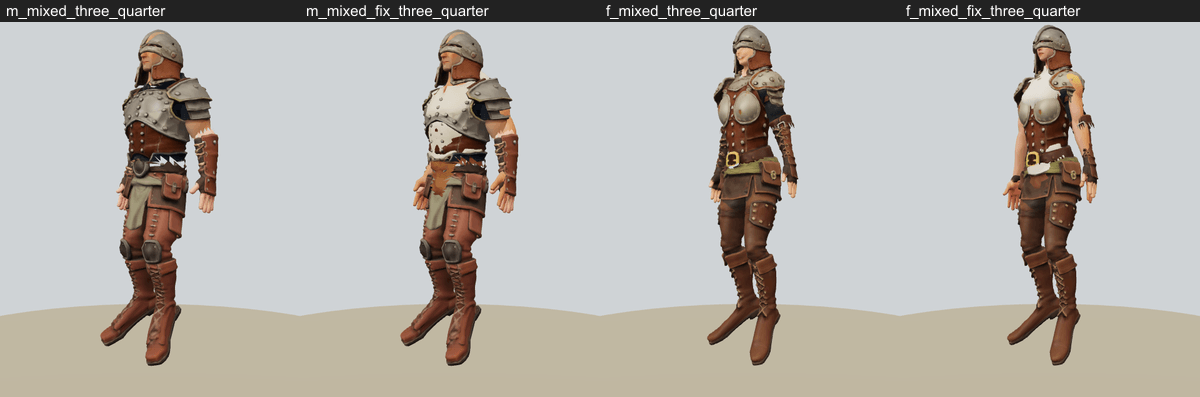
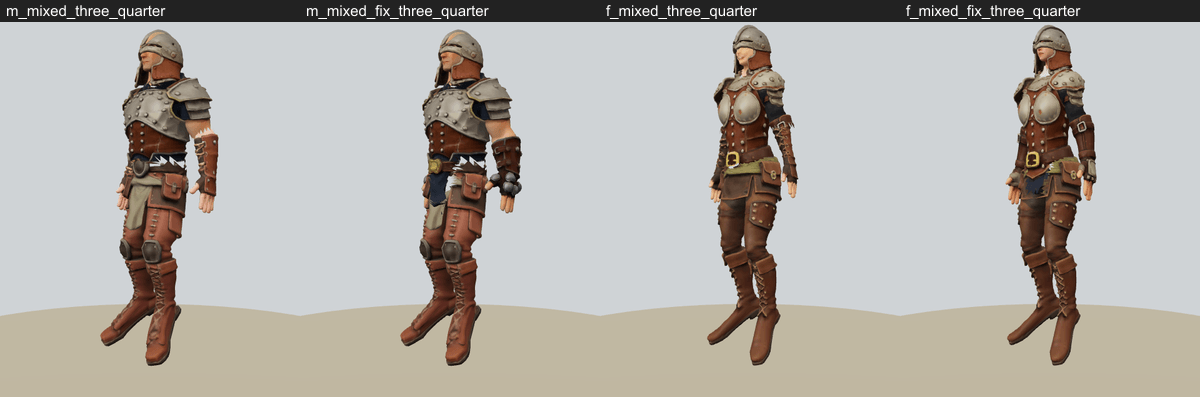
fix(characters): close stylized seams by set, not by the bare body
The bare body regions sit on the armor surface, so drawing them under a
seam showed the pale base through a plate chest. A seam is closed in the
worn set instead: the belt follows the chest's set and the gloves the
shoulders' while both are worn, so the mixed kit and mixed gear meet.

Claude-Session: https://claude.ai/code/session_01SUvW6kbA7x9tAFTjhNjJLN

Changed region(s): [[0.3392, 0.1814, 0.4317, 0.5441], [0.8325, 0.1814, 0.925, 0.5441]]

diff --git a/src/render/characters/stylized_kit_core.ts b/src/render/characters/stylized_kit_core.ts
@@ -210,7 +210,7 @@ export function stylizedKitWorn(
       set && (slot !== 'head' || HELMED.has(set)) ? stylizedItemId(fit, set, slot) : null;
   }
   if (helmHidden) worn.head = null;
-  return worn;
+  return stylizedCloseSeams(fit, worn);
 }
 
 /**
@@ -323,7 +323,7 @@ export function stylizedGearWorn(
     worn[slot] = slot !== 'head' || HELMED.has(set) ? stylizedItemId(fit, set, slot) : null;
   }
   if (helmHidden) worn.head = null;
-  return worn;
+  return stylizedCloseSeams(fit, worn);
 }
 
 const catalogCache = new Map<WocFit, ReadonlyMap<string, WocArmorItem>>();
@@ -344,42 +344,27 @@ export function stylizedFitCatalog(fit: WocFit): ReadonlyMap<string, WocArmorIte
   return hit;
 }
 
-/** The slots whose pieces meet: each set is cut to close against its OWN neighbour, so where
- *  two sets (or a set and a bare slot) meet, a sliver of the body between them is hidden by
- *  neither. */
-const SEAMS: readonly (readonly [string, string])[] = [
+/** The seams a kit closes: each set is cut to meet its OWN neighbour, so a piece of one set
+ *  over a piece of another opens a gap between them (a plate chest ends above a leather
+ *  belt). The second slot of each pair follows the first's set while both are worn: the belt
+ *  goes with the chest, the gloves with the shoulders. */
+const SEAM_FOLLOWERS: readonly (readonly [string, string])[] = [
   ['chest', 'waist'],
-  ['chest', 'arms'],
   ['arms', 'hands'],
-  ['waist', 'legs'],
-  ['legs', 'feet'],
 ];
 
-/**
- * The mixed-kit seam: `wanted` (the parts a stylized body draws) plus the bare body regions
- * under both sides of every seam whose two sides are not one set, so the body fills the gap
- * instead of the far side of the armor showing through it. Untouched (the same set back)
- * for any other body and for a kit that is one set throughout.
- */
-export function stylizedSeamFill(
-  manifest: WocCharacterManifest,
-  worn: WocWorn,
-  wanted: Set<string>,
-): Set<string> {
-  if (!manifest.ownHead) return wanted;
-  const setOf = (slot: string): string | null => {
-    const id = worn[slot];
-    if (!id) return null;
-    return (manifest.items[id] ?? stylizedFitCatalog(manifest.fit).get(id))?.set ?? null;
-  };
-  for (const [a, b] of SEAMS) {
-    if (setOf(a) === setOf(b)) continue;
-    for (const slot of [a, b]) {
-      for (const n of manifest.appearance[`body_${slot}`]?.variants.default?.nodes ?? [])
-        wanted.add(n);
-    }
+/** `worn` with every open seam closed (SEAM_FOLLOWERS); the same object when none is open. */
+export function stylizedCloseSeams(fit: WocFit, worn: WocWorn): WocWorn {
+  const catalog = stylizedFitCatalog(fit);
+  let out: Record<string, string | null> | null = null;
+  for (const [lead, follow] of SEAM_FOLLOWERS) {
+    const a = worn[lead] ? catalog.get(worn[lead] as string) : undefined;
+    const b = worn[follow] ? catalog.get(worn[follow] as string) : undefined;
+    if (!a || !b || a.set === b.set) continue;
+    out ??= { ...worn };
+    out[follow] = stylizedItemId(fit, a.set.replace(/^stylized_/, '') as StylizedSet, follow);
   }
-  return wanted;
+  return out ?? worn;
 }
 
 /** The face and hair a dev review asks for, onto the manifest's defaults. */

diff --git a/tests/stylized_gear_worn.test.ts b/tests/stylized_gear_worn.test.ts
@@ -5,12 +5,12 @@ import {
   STYLIZED_SET_ARMOR,
   STYLIZED_SETS,
   type StylizedItemLookup,
+  stylizedCloseSeams,
   stylizedFitCatalog,
   stylizedGearWorn,
   stylizedItemId,
   stylizedKitWorn,
   stylizedManifest,
-  stylizedSeamFill,
   stylizedSetForItem,
   stylizedSetOfDisplay,
 } from '../src/render/characters/stylized_kit_core';
@@ -92,31 +92,27 @@ describe('stylized gear mapping', () => {
   });
 });
 
-describe('stylized seam fill', () => {
-  const m = stylizedManifest('male', WOC_WARRIOR_MANIFEST, 'plate', ['leather']);
-  const region = (slot: string) => m.appearance[`body_${slot}`].variants.default.nodes[0];
-
-  it('adds nothing for a kit that is one set throughout', () => {
+describe('stylized seam closing', () => {
+  it('leaves a kit that is one set throughout untouched', () => {
     const worn = stylizedKitWorn('male', 'plate', false);
-    const wanted = wocVisibleParts(m, m.defaultAppearance, worn);
-    const before = [...wanted];
-    expect([...stylizedSeamFill(m, worn, wanted)]).toEqual(before);
+    expect(stylizedCloseSeams('male', worn)).toBe(worn);
   });
 
-  it('shows the body under both sides of a seam where two sets meet', () => {
-    const worn = stylizedKitWorn('male', 'mixed', false);
-    const wanted = stylizedSeamFill(m, worn, wocVisibleParts(m, m.defaultAppearance, worn));
-    // plate chest and arms over leather waist and hands: chest/waist and arms/hands seams
-    for (const slot of ['chest', 'waist', 'arms', 'hands'])
-      expect(wanted.has(region(slot))).toBe(true);
-    // leather waist, legs and feet meet each other only: those stay covered
-    expect(wanted.has(region('legs'))).toBe(false);
-    expect(wanted.has(region('feet'))).toBe(false);
-  });
-
-  it('leaves a WOC body alone', () => {
-    const wanted = new Set(['x']);
-    expect(stylizedSeamFill(WOC_WARRIOR_MANIFEST, { chest: null }, wanted)).toBe(wanted);
-    expect([...wanted]).toEqual(['x']);
+  it('puts the belt with the chest and the gloves with the shoulders across two sets', () => {
+    const worn = stylizedKitWorn('female', 'mixed', false);
+    expect(worn.chest).toBe(stylizedItemId('female', 'plate', 'chest'));
+    expect(worn.waist).toBe(stylizedItemId('female', 'plate', 'waist'));
+    expect(worn.hands).toBe(stylizedItemId('female', 'plate', 'hands'));
+    expect(worn.legs).toBe(stylizedItemId('female', 'leather', 'legs'));
+    const gear = stylizedGearWorn(
+      'male',
+      { chest: 'robe', waist: 'belt', gloves: 'mitts' },
+      false,
+      'mage',
+      lookup({ robe: 'cloth', belt: 'leather', mitts: 'leather' }),
+    );
+    expect(gear.waist).toBe(stylizedItemId('male', 'mage', 'waist'));
+    // no shoulders worn: the gloves keep their own set
+    expect(gear.hands).toBe(stylizedItemId('male', 'leather', 'hands'));
   });
 });

diff --git a/src/render/characters/visual.ts b/src/render/characters/visual.ts
@@ -184,12 +184,7 @@ import {
   tickStow,
 } from './stow_transition';
 import { auraHeldClip, stunIdleClip } from './stun_idle_core';
-import {
-  stylizedAppearanceFor,
-  stylizedDrawableWorn,
-  stylizedKitFor,
-  stylizedSeamFill,
-} from './stylized_kit_dev';
+import { stylizedAppearanceFor, stylizedDrawableWorn, stylizedKitFor } from './stylized_kit_dev';
 import { CharacterSurfaceResponse, SURFACE_RESPONSE_PROGRAM } from './surface_response';
 import { createTurnInPlaceState, stepTurnInPlace } from './turn_in_place_core';
 import { warriorActionBlend } from './warrior_action_blend';
@@ -840,7 +835,7 @@ export class CharacterVisual {
       stylizedAppearanceFor(manifest) ?? wocDefaultAppearance(manifest),
       stylizedDrawableWorn(manifest, worn, this.wocParts),
     );
-    applyWocPartVisibility(this.wocParts, manifest, stylizedSeamFill(manifest, worn, wanted));
+    applyWocPartVisibility(this.wocParts, manifest, wanted);
     // The modular head after the part pass: the worn helm hides its hair.
     if (this.wocHead && !this.wocHead.setHelm(wocWornHidesHair(manifest, worn))) {
       this.wocHead.apply();

diff --git a/src/render/characters/stylized_kit_dev.ts b/src/render/characters/stylized_kit_dev.ts
@@ -20,9 +20,8 @@ import type { WocCharacterManifest } from './woc_character_manifest';
 import { WOC_ITEM_DISPLAY } from './woc_item_display';
 import type { WocAppearance, WocWorn } from './woc_parts_core';
 
-// the visual's third and fourth hooks: what a stylized body can draw while a set file still
-// streams, and the body regions that fill a seam between two sets
-export { stylizedDrawableWorn, stylizedSeamFill } from './stylized_kit_core';
+// the visual's third hook: what a stylized body can draw while a set file still streams
+export { stylizedDrawableWorn } from './stylized_kit_core';
 
 /** The live item table, as the gear mapping reads it. */
 const ITEM_LOOKUP: StylizedItemLookup = {
